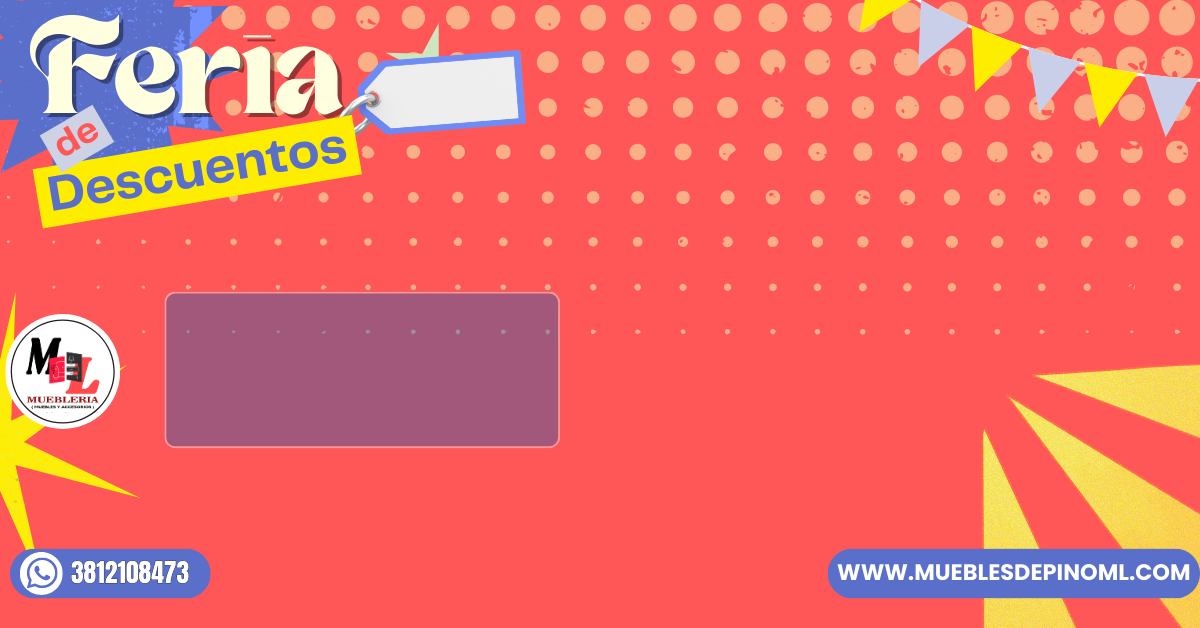
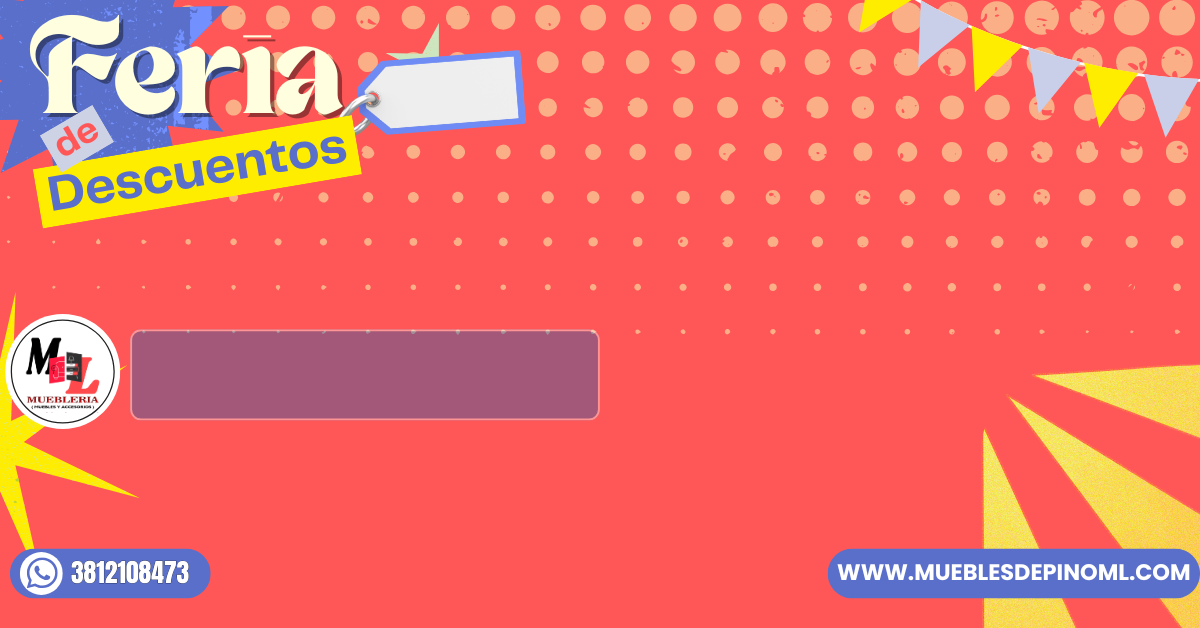
feria de ofertas

Changed region(s): [[0.0925, 0.4538, 0.5242, 0.7261], [0.0617, 0.7564, 0.0925, 0.7866]]

diff --git a/src/components/Plantillas/FeriaDescuentos.jsx b/src/components/Plantillas/FeriaDescuentos.jsx
@@ -29,7 +29,7 @@ const FeriaDescuentos = ({
   // ≤8 chars → una línea grande | ≤14 → una línea mediana | >14 → dos líneas
   const unaLinea = len <= 14;
   const nombreFontSize = len <= 8 ? 72 : len <= 14 ? 54 : len <= 20 ? 54 : len <= 26 ? 46 : 36;
-  const descUnaLinea = descripcion.length <= 50;
+  const descUnaLinea = descripcion.length <= 35;
 
   // Imagen: si es muy alta (portrait) la achicamos y recentramos para que no tape el fondo
   // Centro deseado: x≈298, y≈305 (zona del reflector)
@@ -39,7 +39,7 @@ const FeriaDescuentos = ({
   const imgSize = isTall ? IMG_TALL : IMG_FULL;
   // Al achicar una imagen portrait el contenido visible ocupa menos ancho dentro del box "contain",
   // así que sumamos un offset extra para que quede centrada bajo el reflector
-  const imgLeft = Math.round(340 - imgSize / 2) + (isTall ? 25 : 0);
+  const imgLeft = Math.round(860 - imgSize / 2) + (isTall ? 25 : 0);
   const imgTop  = Math.round(305 - imgSize / 2);
 
   /* ─── keyframes inyectados una sola vez ─── */
@@ -57,9 +57,17 @@ const FeriaDescuentos = ({
       0%,100% { opacity:1; }
       50%      { opacity:0.82; }
     }
+    @keyframes priceColorShift {
+      0%,100% { color: #fff898; }
+      50%      { color: #7de8ff; }
+    }
     @keyframes slideDown {
       from { opacity:0; transform: translateY(-22px); }
       to   { opacity:1; transform: translateY(0);     }
+    }
+    @keyframes slideDownRotated {
+      from { opacity:0; transform: rotate(-4deg) translateY(-22px); }
+      to   { opacity:1; transform: rotate(-4deg) translateY(0);     }
     }
     @keyframes slideRight {
       from { opacity:0; transform: translateX(-28px) translateX(0); }
@@ -144,8 +152,8 @@ const FeriaDescuentos = ({
           <div
             style={{
               position: 'absolute',
-              left: 728,
-              top: 500,
+              left: 358,
+              top: 490,
               transform: 'translate(-50%, -50%)',
               textAlign: 'center',
               lineHeight: 1,
@@ -158,12 +166,18 @@ const FeriaDescuentos = ({
             <div
               style={{
                 fontFamily: "'Rubik', sans-serif",
-                fontWeight: 900,
-                fontSize: porcentajeDescuento > 0 ? 46 : 52,
-                color: '#050303',
+                fontWeight: 1000,
+                fontSize: porcentajeDescuento > 0 ? 66 : 52,
+                color: '#fff898',
+                textShadow: `
+    -3px -3px 0 #352020,
+     3px -3px 0 #352020,
+    -3px  3px 0 #352020,
+     3px  3px 0 #4a2c1a
+  `,
                 letterSpacing: -1,
                 lineHeight: 0.95,
-                animation: 'pricePulse 2.5s ease-in-out 1.8s infinite',
+                animation: 'pricePulse 2.5s ease-in-out 1.8s infinite, priceColorShift 2.5s ease-in-out 1.8s infinite',
               }}
             >
               {fmt(precioOferta)}
@@ -177,22 +191,22 @@ const FeriaDescuentos = ({
             <div
               style={{
                 position: 'absolute',
-                left: 63,
-                top: 22,
+                left: 400,
+                top: 52,
                 transform: 'rotate(-4deg)',
                 zIndex: 2,
                 fontFamily: "'Rubik', sans-serif",
                 fontWeight: 900,
-                fontSize: 33,
-                color: '#ffffff',
+                fontSize: 53,
+                color: '#808ae4',
                 letterSpacing: -1,
                 lineHeight: 1,
-                textShadow: '0 2px 10px rgba(0,0,0,0.5)',
+
                 pointerEvents: 'none',
-                animation: 'slideDown 0.5s ease-out 0.1s both',
+                animation: 'slideDownRotated 0.5s ease-out 0.1s both',
               }}
             >
-              {porcentajeDescuento}% OFF
+              {porcentajeDescuento}%
             </div>
           )}
 
@@ -203,8 +217,8 @@ const FeriaDescuentos = ({
             <div
               style={{
                 position: 'absolute',
-                left: 620,
-                top: 420,
+                left: 210,
+                top: 410,
                 display: 'flex',
                 alignItems: 'center',
                 gap: 8,
@@ -215,7 +229,7 @@ const FeriaDescuentos = ({
               <div
                 style={{
                   fontFamily: "'Rubik', sans-serif",
-                  fontSize: 24,
+                  fontSize: 34,
                   color: 'rgb(255, 255, 255)',
                   letterSpacing: 1.5,
                   textTransform: 'uppercase',
@@ -226,7 +240,7 @@ const FeriaDescuentos = ({
               <div
                 style={{
                   fontFamily: "'Rubik', sans-serif",
-                  fontSize: 24,
+                  fontSize: 34,
                   color: 'rgb(255, 255, 255)',
                   textDecoration: 'line-through',
                   lineHeight: 1,
@@ -244,8 +258,8 @@ const FeriaDescuentos = ({
           <div
             style={{
               position: 'absolute',
-              left: 890,
-              top: unaLinea ? 200 : 190,
+              left: 360,
+              top: unaLinea ? 230 : 190,
               transform: 'translateX(-50%)',
               fontFamily: "'Rubik', sans-serif",
               fontWeight: 900,
@@ -256,10 +270,7 @@ const FeriaDescuentos = ({
               width: 380,
               lineHeight: 1.05,
               pointerEvents: 'none',
-              background: 'linear-gradient(180deg, #fff5a0 0%, #f5c800 30%, #c8860a 65%, #f5c800 85%, #fff0a0 100%)',
-              WebkitBackgroundClip: 'text',
-              WebkitTextFillColor: 'transparent',
-              backgroundClip: 'text',
+              color: 'rgb(255, 255, 255)',
               filter: 'drop-shadow(0 3px 6px rgba(0,0,0,0.7))',
               animation: 'slideLeftTitle 0.55s ease-out 0.5s both',
             }}
@@ -274,11 +285,11 @@ const FeriaDescuentos = ({
             <div
               style={{
                 position: 'absolute',
-                left: 650,
-                top: 330,
+                left: 120,
+                top: 340,
                 width: 490,
                 fontFamily: "'Rubik', sans-serif",
-                fontSize: descUnaLinea ? 18 : 14,
+                fontSize: descUnaLinea ? 20 : 16,
                 fontWeight: 400,
                 color: 'rgb(255, 255, 255)',
                 lineHeight: 1.6,
